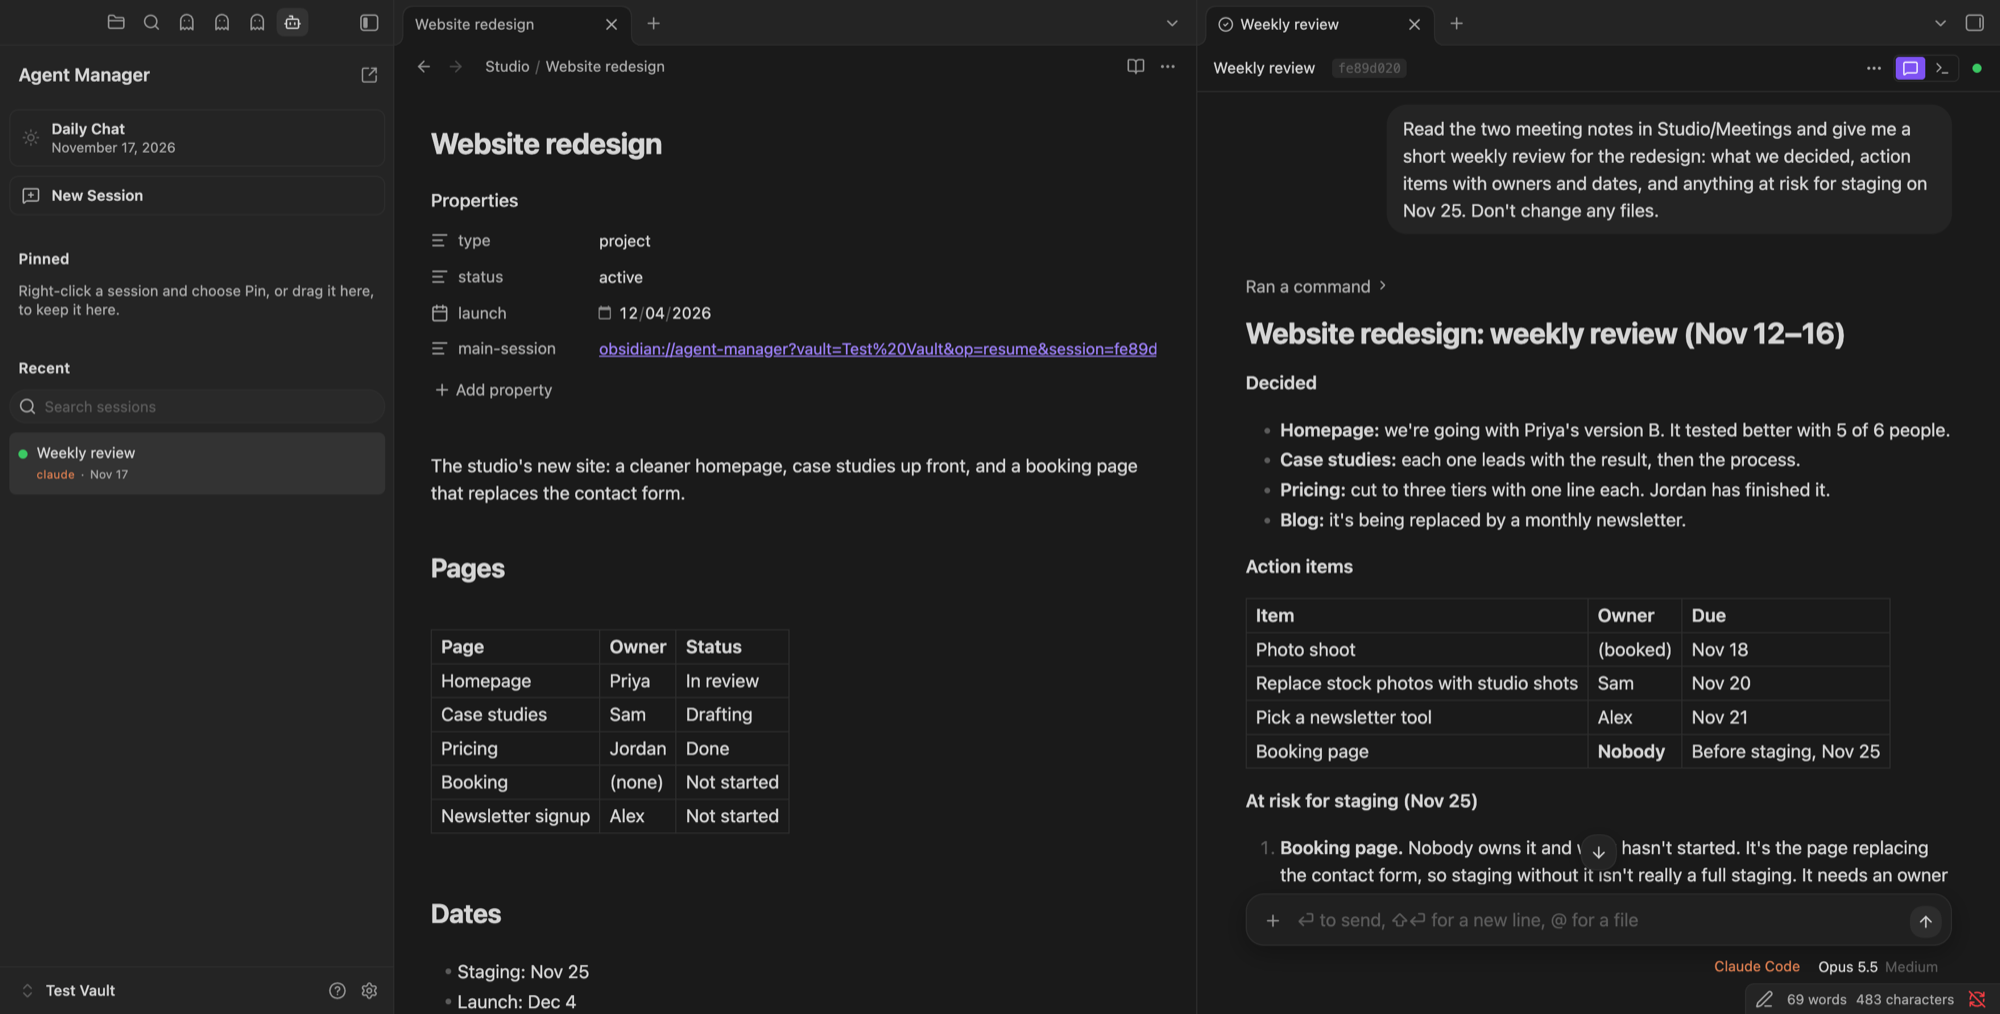
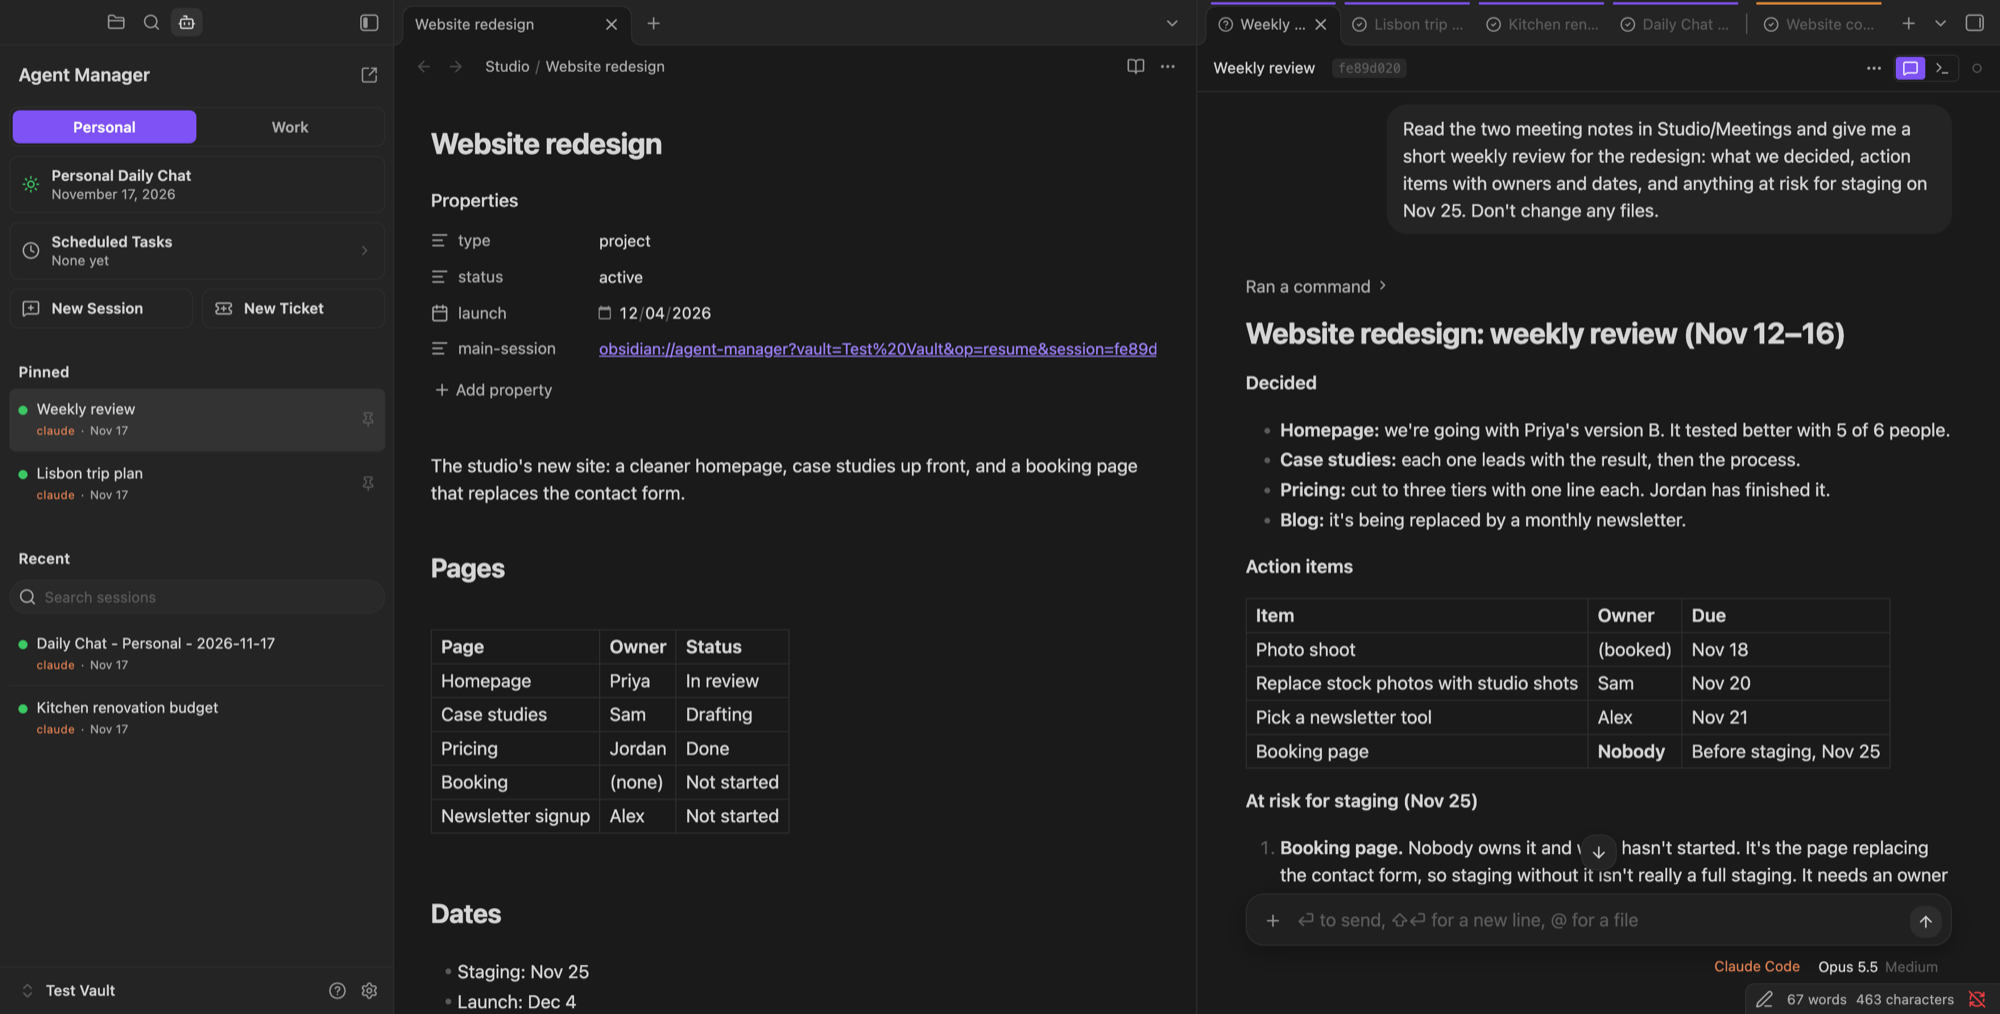
README: a new screenshot

diff --git a/README.md b/README.md
@@ -4,7 +4,7 @@ Run Claude Code, Codex, or Antigravity in a tab in Obsidian. Every session is li
 
 Desktop and macOS only, for now.
 
-![Agent Manager: the session sidebar beside a note, and a Claude Code session in the conversation view](assets/screenshot.png)
+![Agent Manager: the session sidebar with two agent profiles beside a note, and a Claude Code session in the conversation view](assets/screenshot.png)
 
 ## What it does
 
